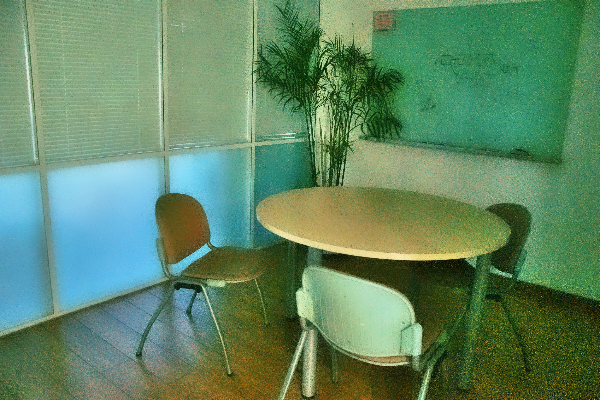
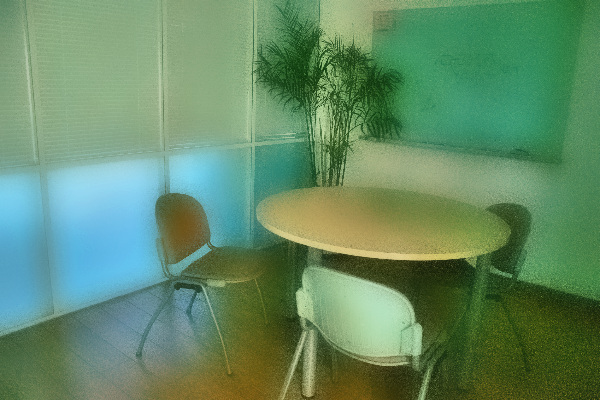
Smooth grain on uniformly crushed frames instead of adding it back.
A crushed frame has already amplified noise above real edges. The refine
stage now keeps the guided-filter base on those frames only, and the soft
gain is 1.70. LOL eval15 moves to 20.35 dB / 0.8170 and LOL-v2 Real to
18.63 dB / 0.7787. Synthetic and UnLOL stay on the same path.

diff --git a/config.py b/config.py
@@ -79,7 +79,7 @@ TONE_GAMMA = 0.82          # additional gamma on ordinary (not crushed) images
 CRUSH_MEAN = 0.045         # max-channel mean below this can be a crushed frame
 CRUSH_P99 = 0.13           # and the 99th percentile is still dark
 CRUSH_RATIO = 4.0          # and there is no bright anchor relative to the median
-CRUSH_GAIN = 1.65
+CRUSH_GAIN = 1.70
 CRUSH_KNEE = 0.84
 # Midtone anchor: only when the input already has some light, the recovery is
 # still dim, and highlights are not already near white.
@@ -114,11 +114,13 @@ REFINE_RADIUS = 4
 REFINE_EPS = 0.006
 DETAIL_KEEP = 0.25
 DETAIL_TAU = 0.04
-# Stronger smooth after the crushed-exposure gain, which amplifies noise more.
-CRUSH_REFINE_RADIUS = 6
-CRUSH_REFINE_EPS = 0.012
-CRUSH_DETAIL_KEEP = 0.15
-CRUSH_DETAIL_TAU = 0.05
+# A crushed frame has already been amplified, so the grain is stronger than the
+# real edges. Keep the guided-filter base and do not add that grain back.
+# Li, Liu, Yang, Sun, Guo, TIP 2018: treat amplified noise separately from reflectance.
+CRUSH_REFINE_RADIUS = 12
+CRUSH_REFINE_EPS = 0.04
+CRUSH_DETAIL_KEEP = 0.0
+CRUSH_DETAIL_TAU = 0.10
 
 # --- 4. Colour --------------------------------------------------------------
 SATURATION = 1.04

diff --git a/modules/refine.py b/modules/refine.py
@@ -3,7 +3,8 @@ Edge-preserving refine.
 
 Smooth with a guided filter, then add back only the detail whose amplitude
 is larger than a noise threshold. Edges stay. Fine grain does not.
-Crushed exposures, which were amplified the most, use a stronger smooth.
+A crushed exposure is smoothed more and its grain is not added back, because
+that grain was amplified above the level of real edges.
 """
 
 import numpy as np

diff --git a/README.md b/README.md
@@ -41,7 +41,7 @@ Enhanced image
 2. **Adaptive tone.** If the frame is uniformly crushed (very low mean, no bright anchor), a stronger soft gain lifts it. Otherwise a mild gamma (0.82) is enough, and a capped midtone anchor adds at most 10% when the recovery is still dim and the highlights are not already near white. A partial gray-world step (strength 0.10) pulls a colour cast back without forcing a gray scene.
 
    When the illumination map itself shows a bright tail, a dark mass, and a mean above 0.30, the frame is treated as mixed light. Those frames do not use one exponent. Shadows keep gamma 0.70, or 0.92 when more than half the map is dark, and already-bright areas use gamma 0.55. The extra global 0.82 is not applied on top. A dark scene, including every LOL eval15 frame, never takes this branch.
-3. **Detail refine.** A second guided filter suppresses the grain that the lift amplified. Strong edges are added back, so book titles, fabric, and faces stay sharper than a wide blur would leave them. Crushed frames, which amplify more noise, use a slightly stronger smooth.
+3. **Detail refine.** A second guided filter suppresses the grain that the lift amplified. Strong edges are added back, so book titles, fabric, and faces stay sharper than a wide blur would leave them. A uniformly crushed frame is the exception: the gain has already amplified the grain above the real edges, so that frame keeps the smoothed base and does not add the grain back.
 4. **Colour restore.** Saturation is raised by 4% on midtones only, so shadows are not pushed into false colour and highlights are not oversaturated.
 
 ## Results
@@ -50,12 +50,12 @@ Higher PSNR is closer in pixel value. Higher SSIM is closer in structure. Scores
 
 | Dataset | Images | PSNR | SSIM |
 |---|---:|---:|---:|
-| LOL eval15 | 15 | **20.14 dB** | **0.8005** |
-| LOL-v2 Real test | 100 | **18.56 dB** | **0.7571** |
+| LOL eval15 | 15 | **20.35 dB** | **0.8170** |
+| LOL-v2 Real test | 100 | **18.63 dB** | **0.7787** |
 | LOL-v2 Synthetic test | 100 | **19.88 dB** | **0.8282** |
 | UnLOL test | 43 | **13.54 dB** | **0.6137** |
 
-On LOL eval15 the mean is 20.14 dB, from 15.78 dB on the weakest frame to 26.49 dB on the strongest. LOL-v2 Real finishes at 18.56 dB / 0.7571 across 100 captured pairs. The synthetic test finishes at 19.88 dB / 0.8282. Illumination recovery does most of that work: the raw synthetic inputs sit at 11.22 dB / 0.4450, and the illumination stage alone reaches 20.23 dB / 0.8948. The best synthetic frame is `r191488c6t.png` at 31.08 dB. The weakest, `r01058910t.png` at 10.19 dB, stays soft because the darkness there is not a simple illumination scale.
+On LOL eval15 the mean is 20.35 dB / 0.8170, from 16.75 dB on the weakest frame to 26.49 dB on the strongest. The three uniformly crushed frames are the ones that moved: `23.png` 16.82 dB to 18.08 dB, `55.png` 15.78 dB to 16.75 dB, and `665.png` 18.23 dB to 19.06 dB, with SSIM rising by about 0.07 to 0.10 because the amplified grain is no longer kept. The other twelve frames are unchanged. LOL-v2 Real finishes at 18.63 dB / 0.7787 across 100 captured pairs. The synthetic test finishes at 19.88 dB / 0.8282. Illumination recovery does most of that work: the raw synthetic inputs sit at 11.22 dB / 0.4450, and the illumination stage alone reaches 20.23 dB / 0.8948. The best synthetic frame is `r191488c6t.png` at 31.08 dB. The weakest, `r01058910t.png` at 10.19 dB, stays soft because the darkness there is not a simple illumination scale.
 
 UnLOL is a separate real-scene JPEG test (1280×1280). On its 43 pairs the method scores 13.54 dB / 0.6137. Twelve of those frames are mixed and partly lit, so they take the paired gamma. None of the 43 scores went down. The larger gains are `0502.jpeg` (+3.08 dB), `0604.jpeg` (+2.80 dB), `0703.jpeg` (+2.57 dB), `0103.jpeg` (+2.32 dB), and `1709.jpeg` (+1.85 dB). The best frame is still `1805.jpeg` (18.20 dB) and the weakest is `2903.jpeg` (9.49 dB). Both stay on the single-gamma path because the frame is dark overall. Raw inputs average 10.36 dB.
 
